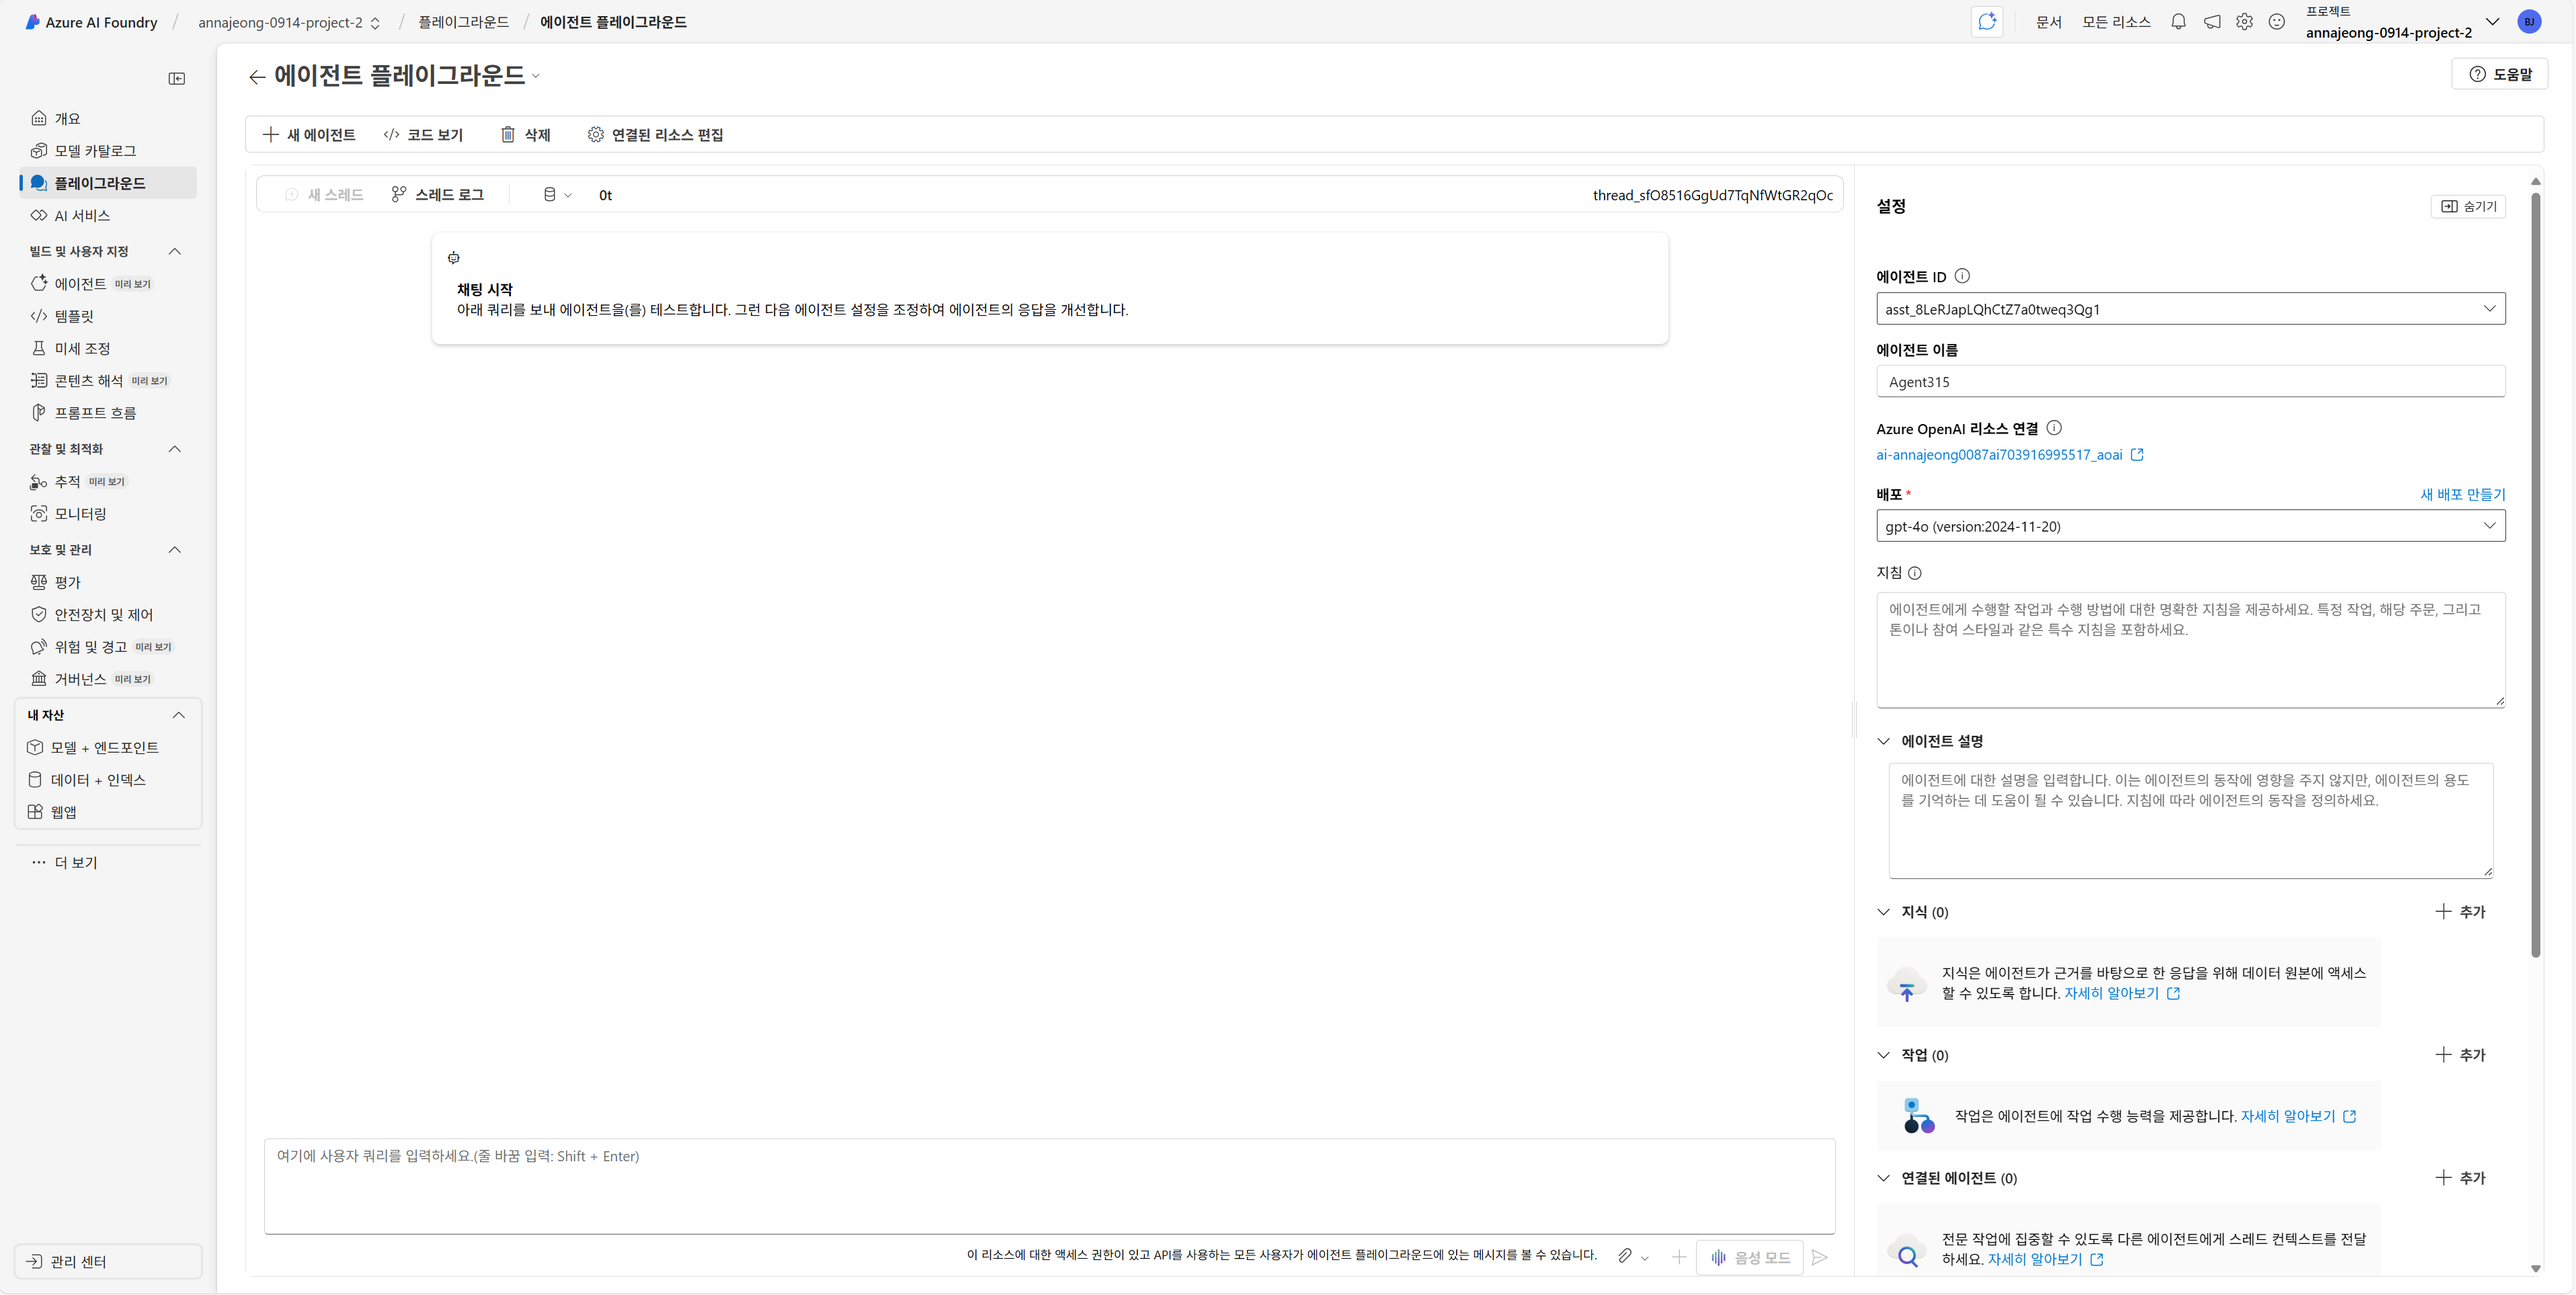
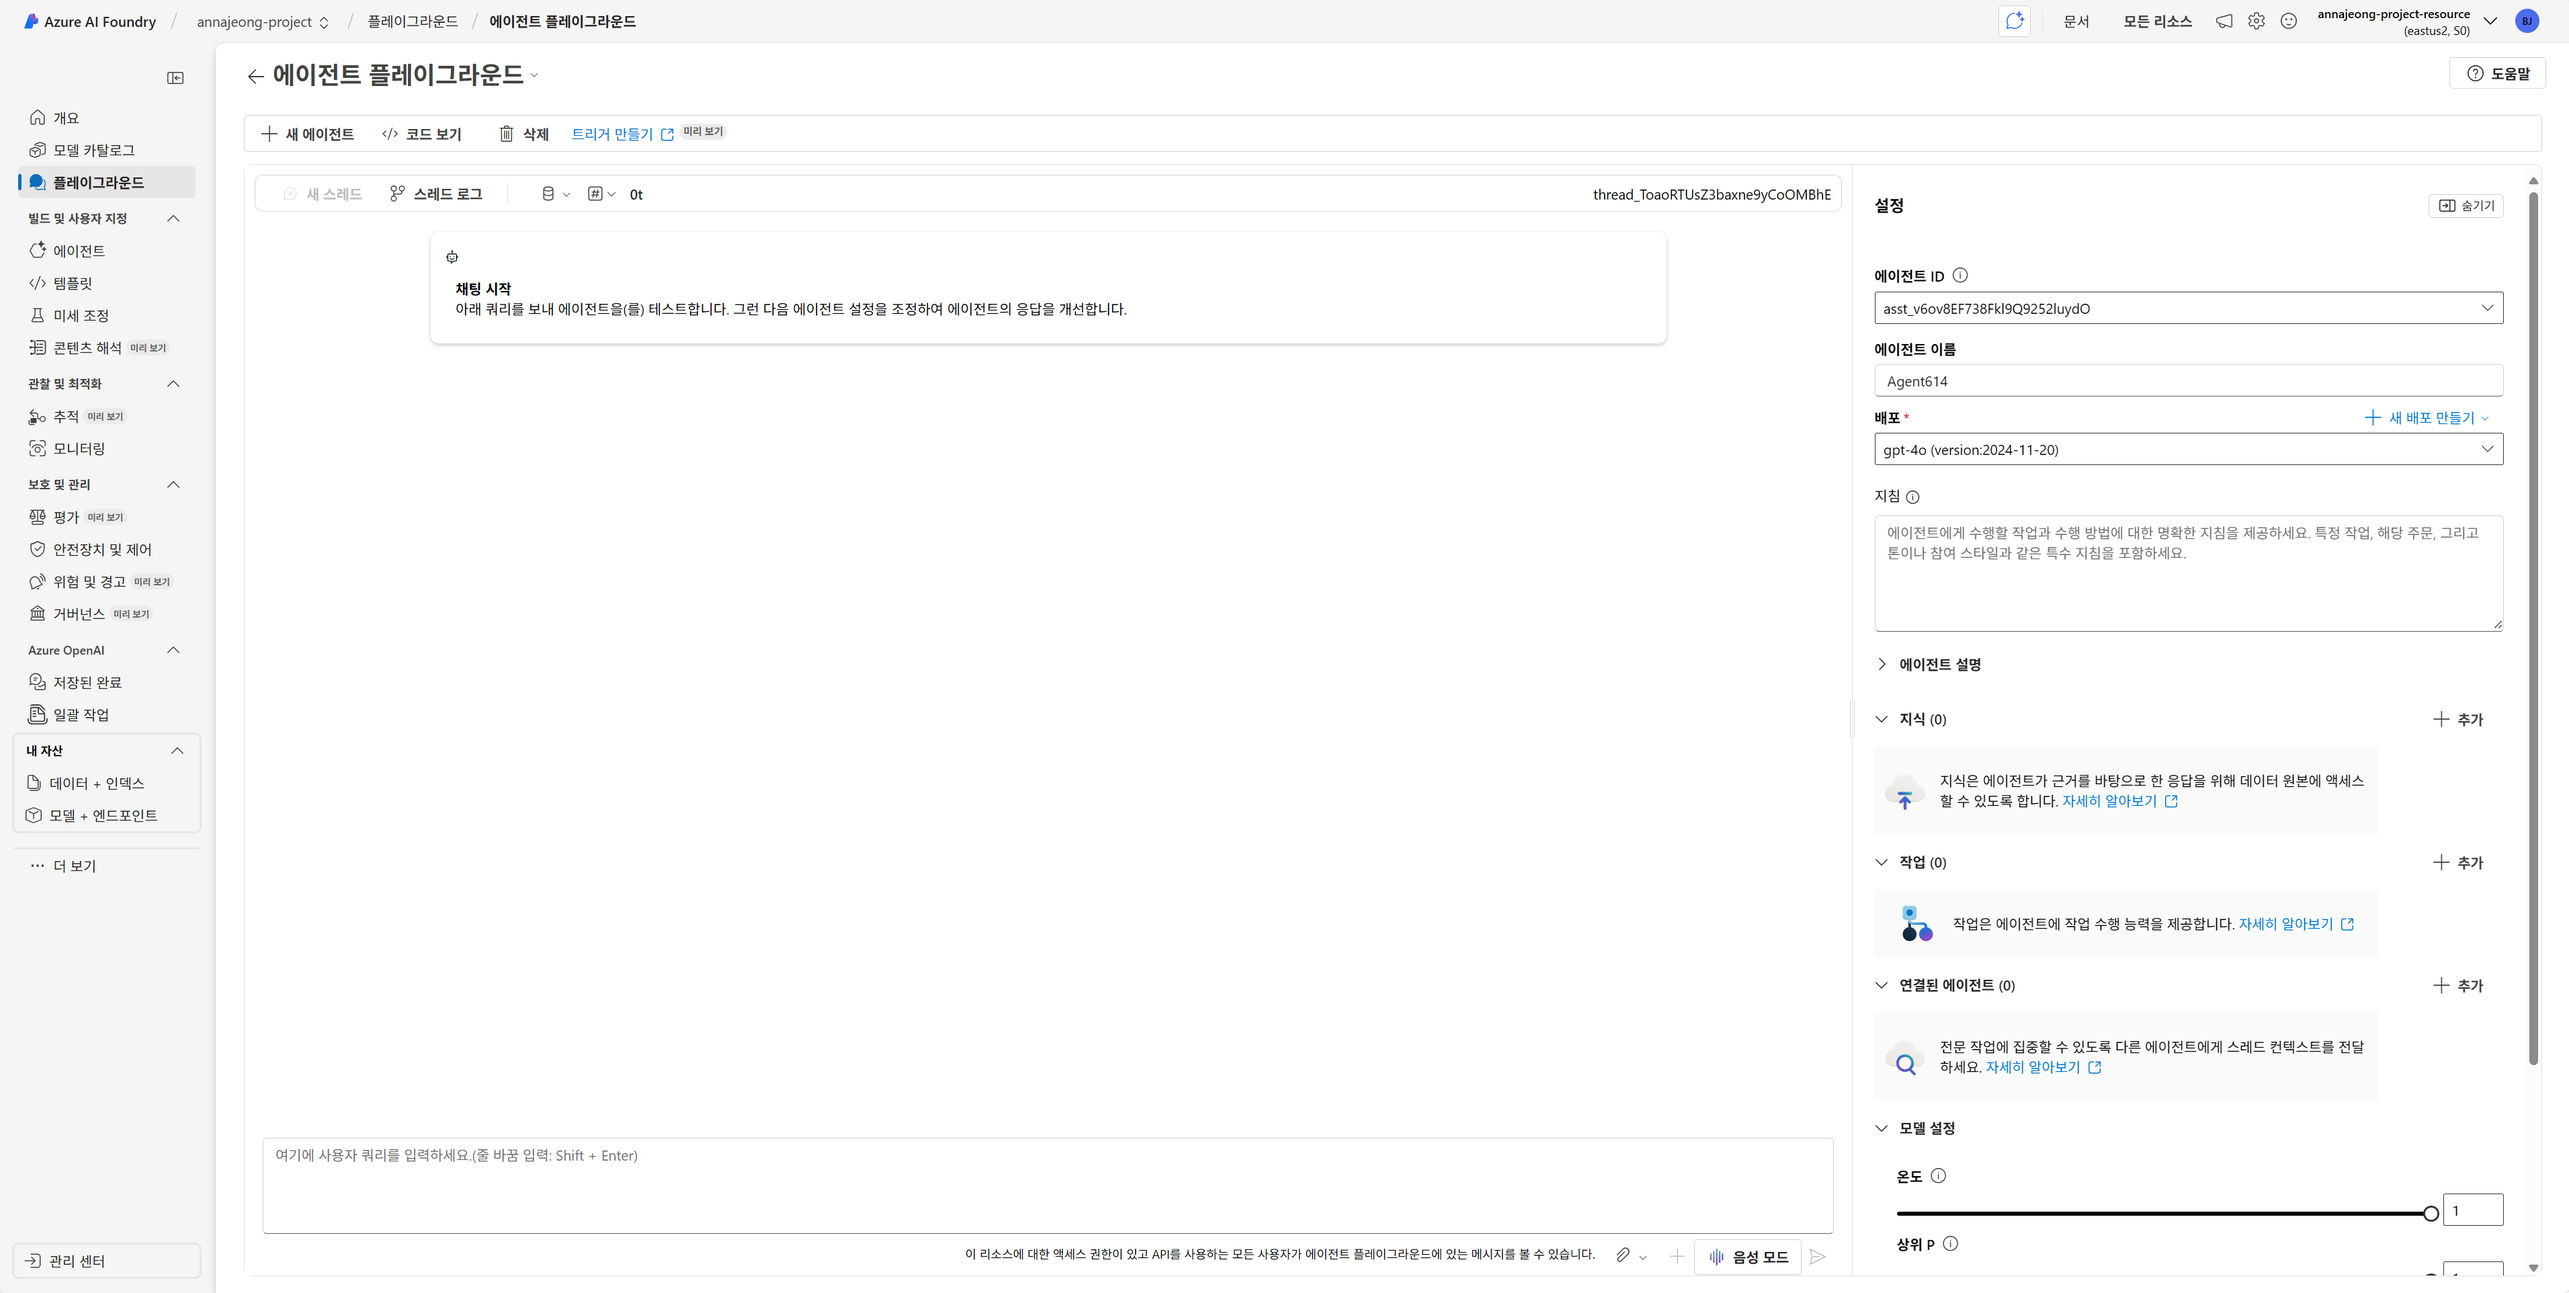
edit hub resource to foundry resource

diff --git a/3. 첫번째 에이전트 구현해보기/README.md b/3. 첫번째 에이전트 구현해보기/README.md
@@ -1,18 +1,12 @@
 # 3. 첫번째 에이전트 구현해보기
 
-앞 단계에서 사용했던 금융 합성 데이터를 사용합니다.
-
-- 금융 합성 데이터 (AI Hub)
-    - [https://aihub.or.kr/aihubdata/data/view.do?dataSetSn=71792](https://aihub.or.kr/aihubdata/data/view.do?dataSetSn=71792)
-    - 국외 반출이 불가하여 별도로 전달
-    - 은행 수신상품, 펀드상품 등 금융상품 정보의 정형 데이터. 예: 상품 코드, 운용사, 금리, 만기, 타입(예금 vs 펀드) 등이 포함
-
 ### 에이전트 플레이그라운드
 
 1. 브라우저 새 탭에서 [Azure AI Foundry](https://ai.azure.com) 포털을 엽니다.
 2. 생성한 프로젝트 화면으로 이동하고 왼쪽 메뉴에서 `에이전트`를 클릭합니다.
-3. 초기 진입시 Azure OpenAI 리소스 선택이 필요합니다. 프로젝트 생성시 구성된 AOAI 리로스를 선택하고 `확인` 버튼을 클릭합니다.
-4. 초기 진입시 기본 에이전트가 배포됩니다. 해당 에이전트를 클릭하고 `플레이그라운드 사용해보기` 버튼을 클릭합니다.
+3. 초기 진입시 기본 에이전트 프로젝트 OpenAI 엔드포인트에 모델 배포를 필요로 합니다. 
+4. gpt-4o를 선택하고 `확인` 버튼을 클릭하고, `배포` 버튼을 클릭하여 배포를 완료합니다.
+5. 모델을 배포하면 기본 에이전트가 배포됩니다. 해당 에이전트를 클릭하고 `플레이그라운드 사용해보기` 버튼을 클릭합니다.
     
     ![image.png](./images/image.png)
     
@@ -63,74 +57,9 @@
 
 ※ 이름 등 직접 식별자는 포함되지 않으며, 익명화된 ID 기반으로 분석이 이루어집니다.
 
-### 데이터 + 인덱스 구성
-
-챗봇에서 업로드한 데이터를 효율적으로 검색·활용할 수 있도록 Azure AI Search에 임베딩합니다.
-
-**데이터 추가**
-
-1. 브라우저에서 [Azure AI Foundry](https://ai.azure.com) 포털을 열고 생성한 프로젝트를 선택합니다.
-2. 왼쪽 메뉴에서 `내 자산 > 데이터 + 인덱스`를 클릭합니다.
-3. 상단의 `+ 새 데이터` 버튼을 클릭합니다.
-4. Select data 단계 데이터 원본에서 `파일/폴더 업로드`를 선택하고 `파일 또는 폴더 업로드` 버튼을 클릭, `파일 업로드`를 선택합니다.
-5. 다운로드 받은 `user_card_credit_summary_sample.json` 파일을 선택합니다.
-    
-    ![image.png](./images/image%202.png)
-    
-6. 업로드가 완료되면 `다음` 버튼을 클릭합니다.
-7. 데이터 이름에 `user_card_credit`를 입력하고 `만들기` 버튼을 클릭합니다.
-
-**인덱스 구성**
-
-1. 데이터 추가가 완료되면 목록에서 `user_card_credit`를 확인할 수 있습니다. 상단의 `인덱스` 탭을 클릭합니다.
-2. 상단의 `+ 새 인덱스` 버튼을 클릭합니다.
-3. 원본 위치 단계 데이터 원본에서 `Azure AI Foundry`의 데이터를 선택합니다.
-4. 앞 단계에서 추가한 `user_card_credit`를 선택하고 `다음` 버튼을 클릭합니다.
-    
-    ![image.png](./images/image%203.png)
-    
-5. Azure AI Search Service 선택에서 프로젝트에 연결된 AI Search Service를 선택합니다.
-6. 백터 인덱스에 `user-card-credit-index`를 입력하고 나머지 옵션은 그대로 두고 `다음` 버튼을 클릭합니다.
-7. 설정 검색 단계에서 포함 모델에 `text-embedding-ada-002`를 선택하고 `다음` 버튼을 클릭하고 `벡터 인덱스 만들기` 버튼을 클릭합니다.
-    
-    (이 과정에는 10분 정도 소요됩니다.)
-    
-8. 인덱스 추가가 완료되면 다음 단계를 진행합니다.
-    
-    ![image.png](./images/image%204.png)
-    
-
-### 연결 생성 (중요)
-
-1. 브라우저 새 탭을 열어 [Azure 포털](https://portal.azure.com)에 접속합니다.
-2. 상단 검색창에서 `AI 검색`을 입력하여 `AI Foundry | AI Search` 화면으로 이동합니다.
-3. 생성한 Search Service를 클릭합니다.
-4. `개요` 화면에서 `URL`을 복사해 둡니다.
-    
-    ![image.png](./images/image%205.png)
-    
-5. 왼쪽 메뉴에서 `설정 > 키`를 클릭합니다.
-6. `기본 관리자 키`를 복사해 둡니다.
-    
-    ![image.png](./images/image%206.png)
-    
-7. 다시 Azure AI Foundry 탭으로 돌아옵니다. 왼쪽 하단의 `관리 센터`를 클릭합니다.
-8. 왼쪽 프로젝트 섹션에서 `Connected resources` 메뉴를 클릭합니다.
-9. 상단의 `+ 새 연결` 버튼을 클릭합니다.
-10. 외부 자산에 연결 추가에서 `Azure AI 검색`을 선택합니다.
-11. `수동 입력`을 선택하고 엔드포인트에 아까 복사해 둔 `Search Service의 URL`을 입력합니다.
-12. 키에 복사해 둔 `기본 관리자 키`를 입력합니다.
-13. (중요) 연결 이름을 인덱스 이름으로 지정해야 합니다. **`user-card-credit-index`**를 입력합니다.
-    
-    ![image.png](./images/image%207.png)
-    
-14. 구성이 완료되면 `연결 추가` 버튼을 클릭합니다.
-
-참고: [https://learn.microsoft.com/ko-kr/azure/ai-foundry/agents/how-to/tools/azure-ai-search?tabs=azureaifoundry#create-an-azure-ai-search-project-connection](https://learn.microsoft.com/ko-kr/azure/ai-foundry/agents/how-to/tools/azure-ai-search?tabs=azureaifoundry#create-an-azure-ai-search-project-connection)
-
 ### 카드회원 분석 에이전트 구현
 
-1. 에이전트 플레이그라운드 화면으로 이동합니다.
+1. 에이전트 플레이그라운드에서 앞 단계에서 생성한 에이전트가 선택되어 있는지 확인합니다.
 2. 오른쪽 설정 패널에서 에이전트 이름을 `CreditProfileAgent`로 입력합니다.
 3. 지침 항목에 아래 내용을 복사하여 붙여 넣습니다.
     
@@ -151,28 +80,27 @@
 4. 에이전트 설명에 아래 내용을 복사하여 붙여 넣습니다.
     
     ```
-    이 에이전트는 user-card-credit-index 데이터를 기반으로, 고객군별 평균 카드 한도, 마케팅 동의와 한도 증액 요청의 관계, 최근 3개월 사용금액 대비 한도금액 비율 등을 집계합니다.
+    이 에이전트는 user-info 데이터를 기반으로, 고객군별 평균 카드 한도, 마케팅 동의와 한도 증액 요청의 관계, 최근 3개월 사용금액 대비 한도금액 비율 등을 집계합니다.
     응답은 항상 한국어로 제공되며, 실제 데이터 값 또는 N=0, 계산 불가와 같은 명확한 결과를 보여줍니다.
     데이터가 부족하더라도 결과를 회피하지 않고, 가능한 범위 내에서 집계 수치와 표본 수를 표시합니다.
     ```
     
-5. 지식 옆의 `+ 추가` 버튼을 클릭합니다.
-6. 데이터 원본 추가에서 `Azure AI 검색`을 클릭합니다.
-    
-    ![image.png](./images/image%208.png)
-    
-7. Azure AI 검색 추가 화면에서 아래와 같이 인덱스를 구성하고 연결 버튼을 클릭합니다.
-    - 인덱스에 연결 : 이 프로젝트에 이미 있는 인덱스
-    - 프로젝트 인덱스 : user-card-credit-index
-    - 검색 유형 : 의미 체계
-    
-    ![image.png](./images/image%209.png)
-    
-8. 지식을 연결하면 업로드한 데이터가 임베딩되어, 응답 시 해당 데이터를 참조할 수 있습니다.
-    
-    ![image.png](./images/image%2010.png)
-    
-9. 이제 임베딩된 데이터가 잘 참조되는지 아래 프롬프트를 통해 에이전트를 실행해 보도록 하겠습니다.
+
+### 데이터 구성
+
+챗봇에서 업로드한 데이터를 효율적으로 검색·활용할 수 있도록 벡터 저장소에 추가합니다.
+
+**데이터 추가**
+
+1. 브라우저 탭에서 **Azure AI Foundry 포털**로 돌아옵니다.
+2. 에이전트 플레이그라운드에서 앞 단계에서 생성한 에이전트가 선택되어 있는지 확인합니다.
+3. 아래 지식 섹션의 `추가` 버튼을 클릭합니다.
+4. **지식 추가 화면**에서 `파일`을 선택합니다.
+5. `user_card_credit_summary_sample.json` 파일을 선택하고 업로드 및 저장 버튼을 클릭합니다.
+
+### 에이전트 테스트
+
+1. 이제 임베딩된 데이터가 잘 참조되는지 아래 프롬프트를 통해 에이전트를 실행해 보도록 하겠습니다.
     
     ```
     40대 VIP 등급 코드 07인 회원들의 평균 이용한도와 일시상환론 금액을 알려줘. 그리고 이들의 라이프스테이지 분포도 함께 보여줘.
@@ -182,8 +110,8 @@
     자녀성장기(1)와 자녀성장기(2) 단계에 있는 30대와 40대 회원들의 평균 이용한도를 비교해 보고, 한도가 높은 순으로 라이프스테이지와 연령대 조합을 정렬해줘.
     ```
     
-10. 아래와 같이 업로드한 데이터에 기반하여 응답을 생성하는 것을 확인할 수 있습니다.
+2. 아래와 같이 업로드한 데이터에 기반하여 응답을 생성하는 것을 확인할 수 있습니다.
     
-    ![image.png](./images/image%2011.png)
+    ![image.png](./images/image%202.png)
     
-    ![image.png](./images/image%2012.png)
+    ![image.png](./images/image%203.png)
